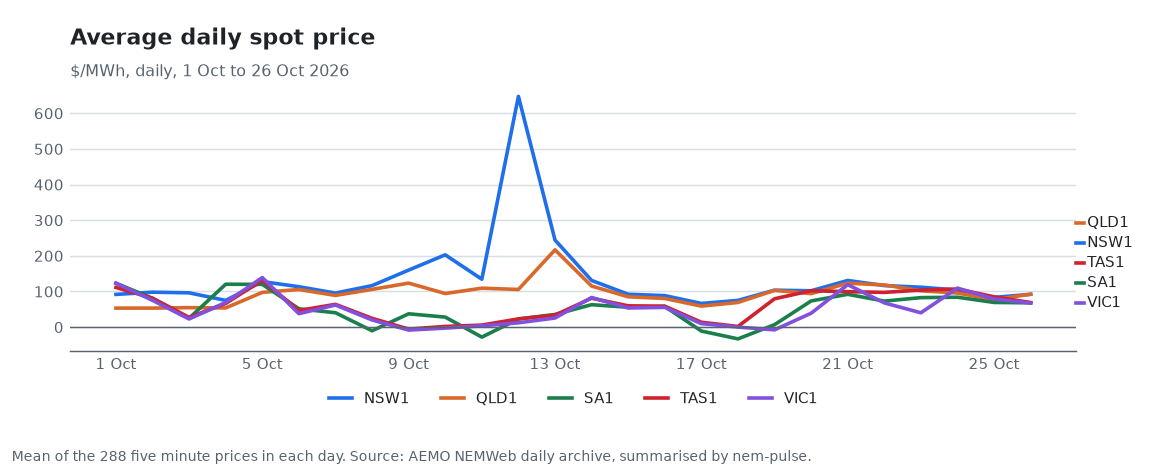
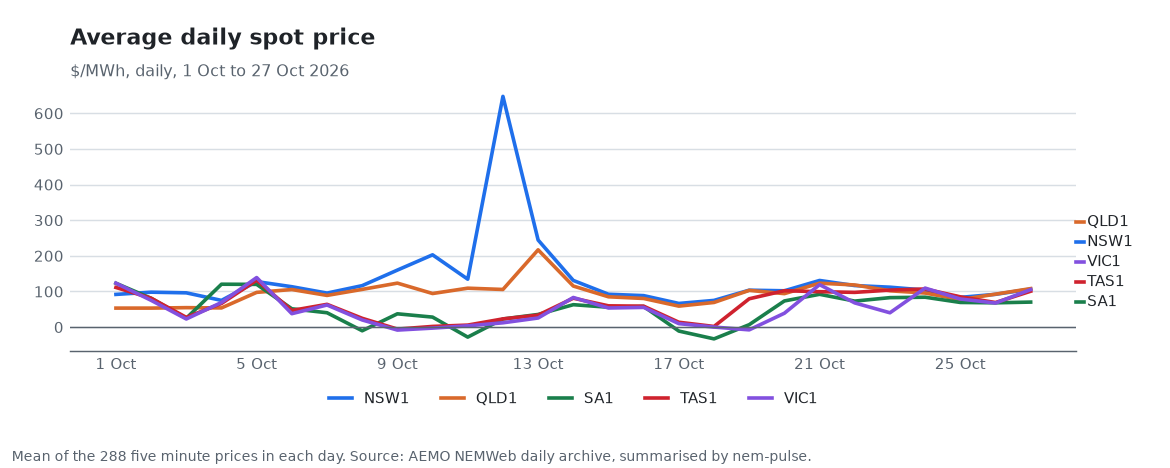
data: 2026-10-29

diff --git a/README.md b/README.md
@@ -15,16 +15,16 @@ I built it to try the "git scraping" pattern on grid data: the repository is the
 ## Latest
 
 <!-- PULSE:START -->
-_Updated for 2026-10-26 (NEM time)._
+_Updated for 2026-10-27 (NEM time)._
 
 | Region | Avg price | Renewables | Intensity | Negative price intervals |
 |---|---:|---:|---:|---:|
-| NSW1 | $92/MWh | 38% | 511 g/kWh | 0 |
-| QLD1 | $92/MWh | 23% | 665 g/kWh | 0 |
-| VIC1 | $67/MWh | 39% | 694 g/kWh | 79 |
-| SA1 | $68/MWh | 42% | 230 g/kWh | 96 |
-| TAS1 | $69/MWh | 100% | 0 g/kWh | 59 |
-| NEM | $84/MWh | 36% | 578 g/kWh | 2 |
+| NSW1 | $107/MWh | 30% | 556 g/kWh | 0 |
+| QLD1 | $108/MWh | 20% | 690 g/kWh | 0 |
+| VIC1 | $105/MWh | 31% | 768 g/kWh | 0 |
+| SA1 | $70/MWh | 56% | 188 g/kWh | 100 |
+| TAS1 | $101/MWh | 100% | 2 g/kWh | 0 |
+| NEM | $106/MWh | 32% | 608 g/kWh | 0 |
 
 ### Recent records
 
